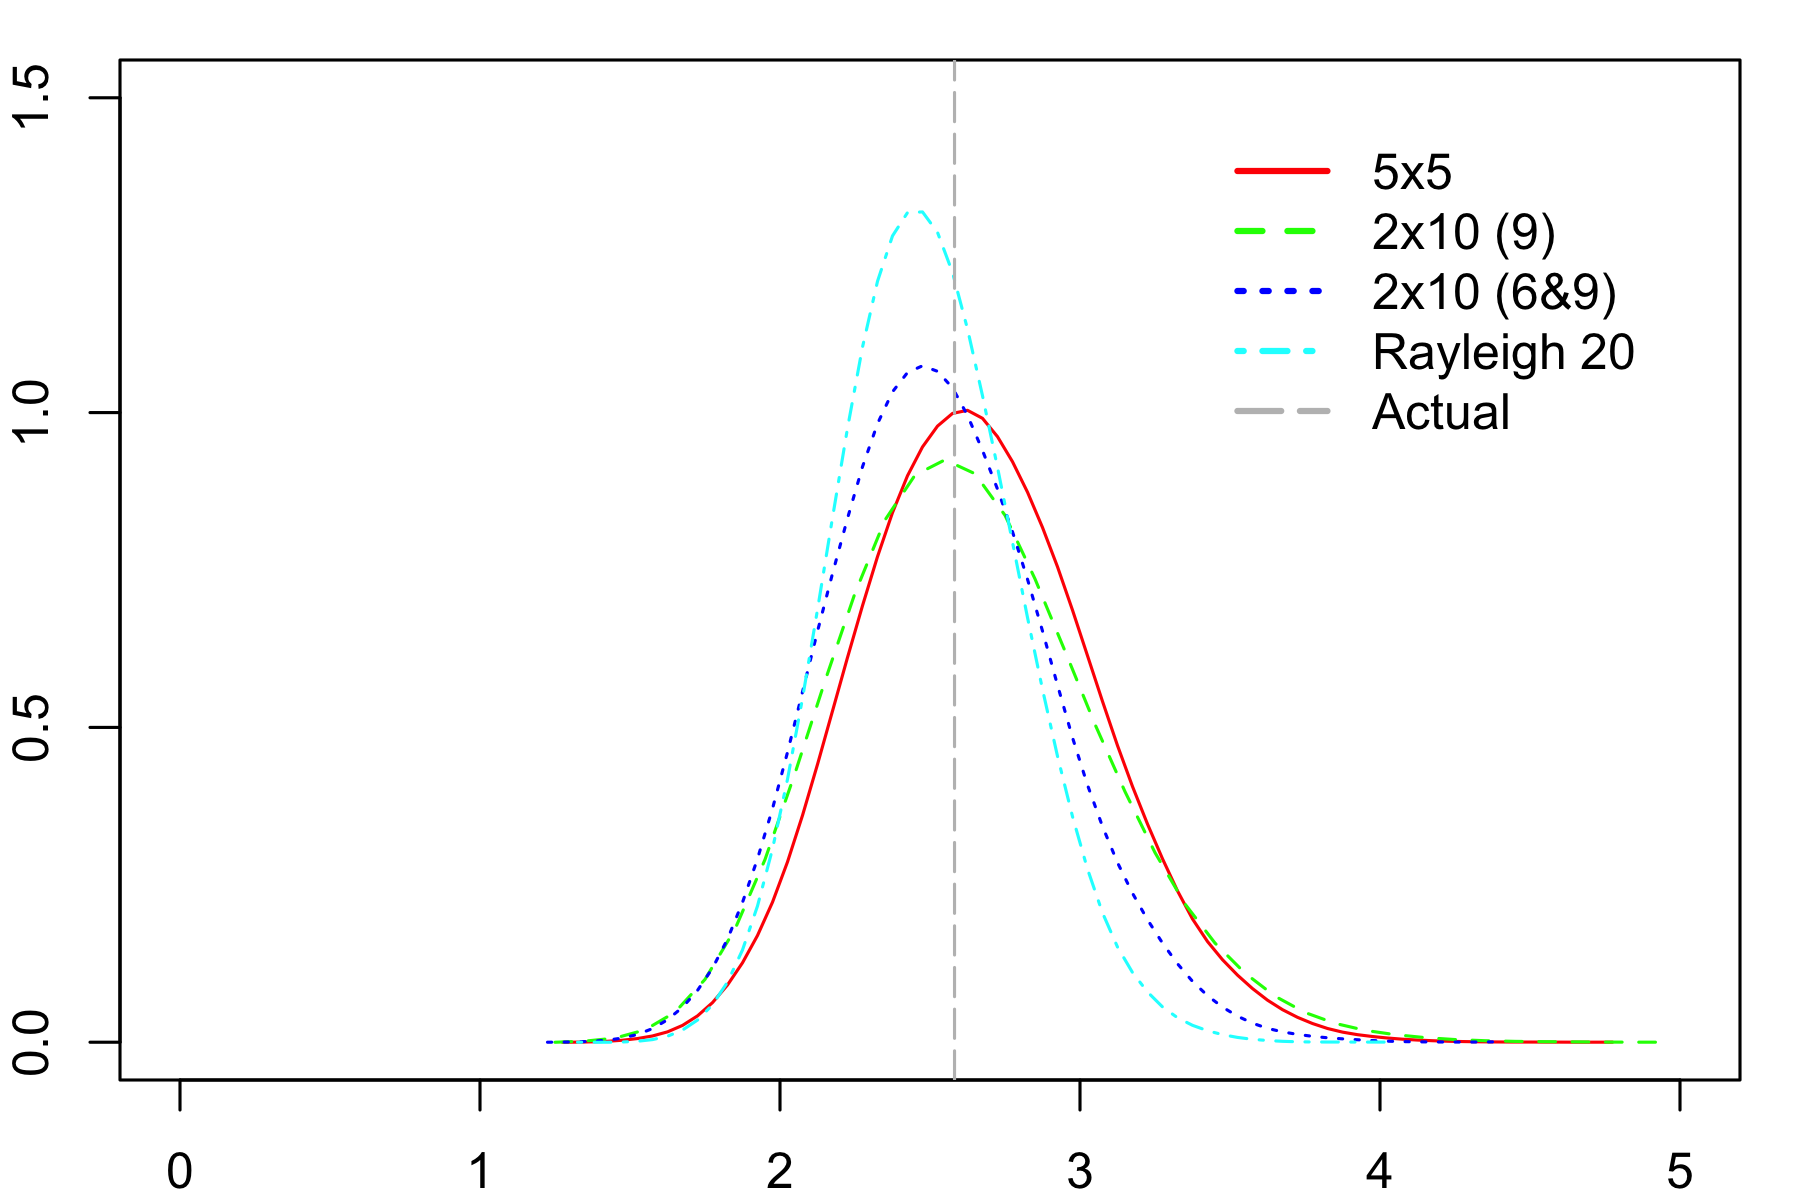
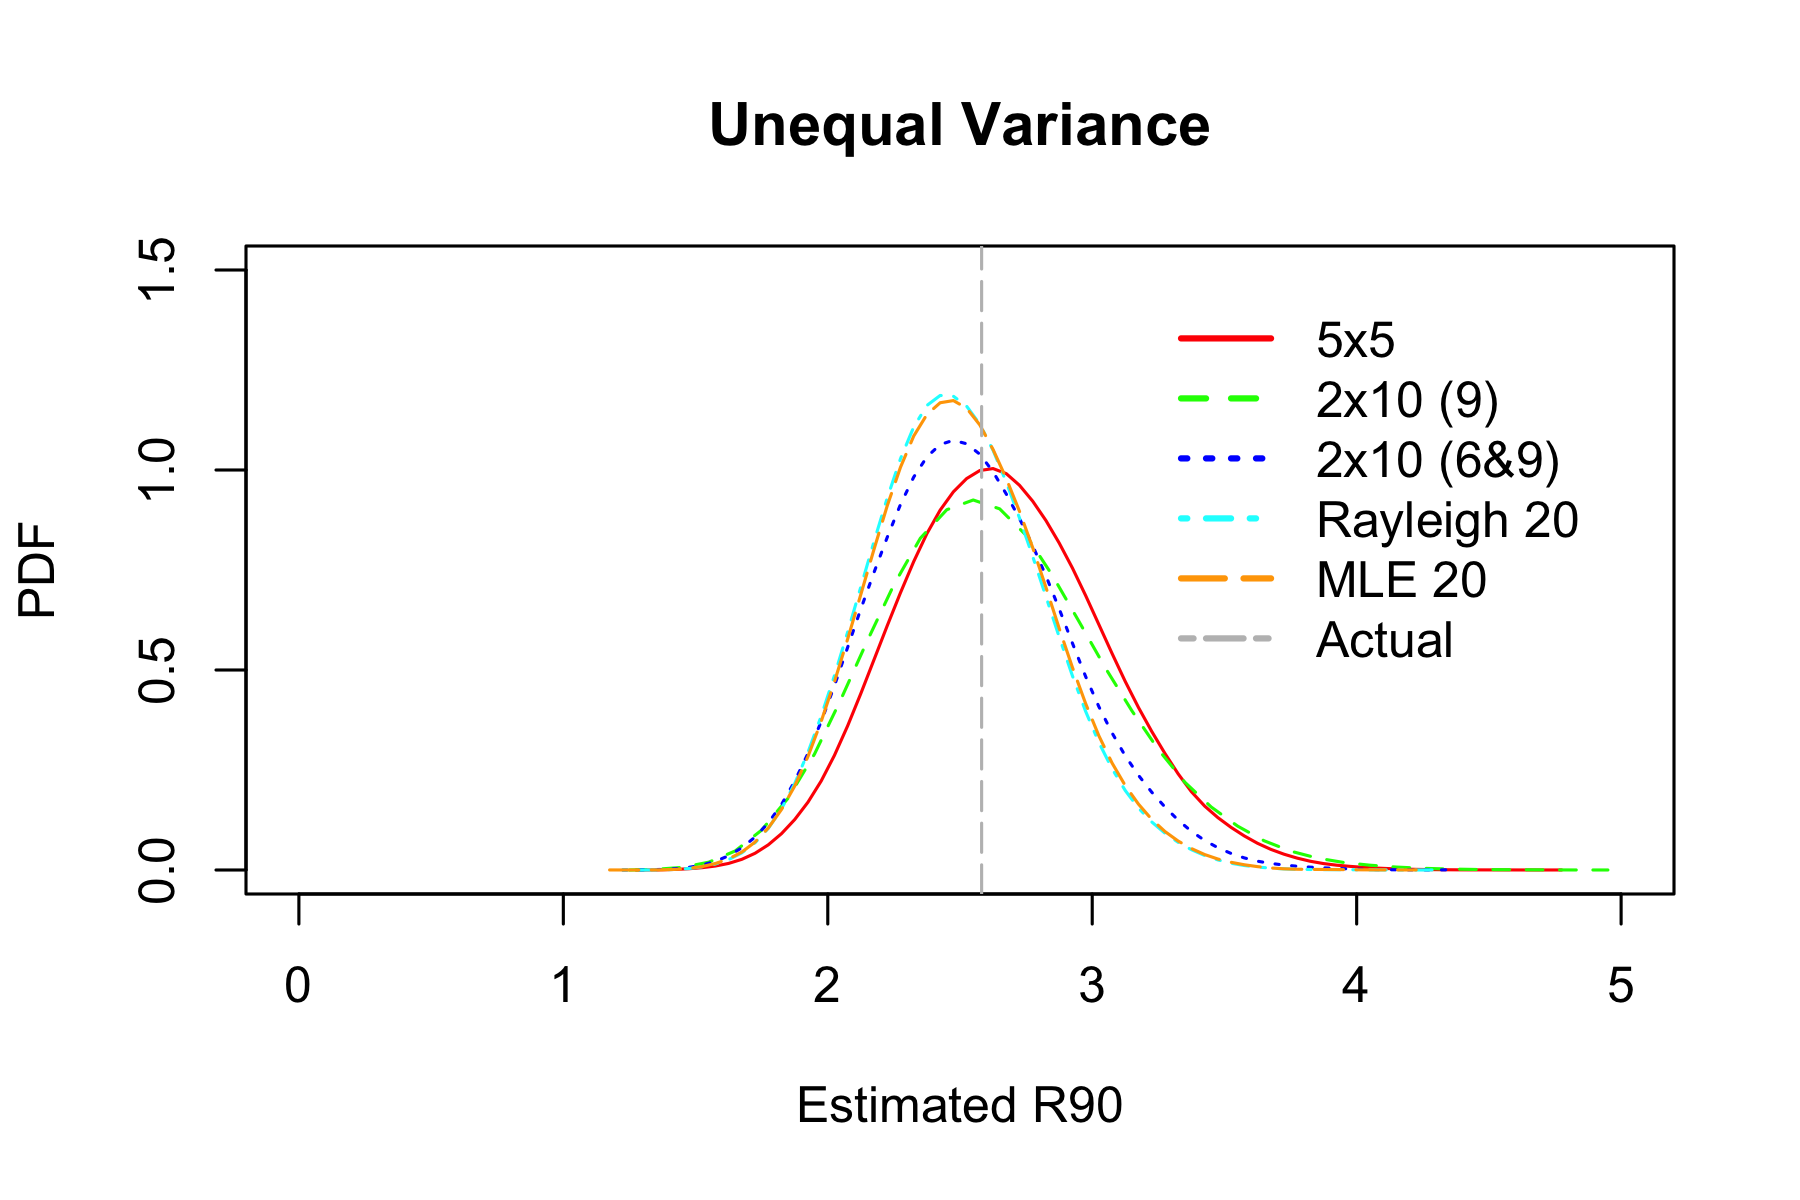
Added MLE, Rayleigh 20 uses 20 shots rather than 25

diff --git a/index.html b/index.html
@@ -77,14 +77,18 @@ img {
 <div id="estimators" class="section level3">
 <h3>Estimators</h3>
 <p><strong>5x5</strong>: Measure average extreme spread of five 5-shot groups. This common method is used by NRA magazine <em>American Rifleman</em> to report firearm accuracy. Multiply by 0.72 to get estimate of R<sub>90</sub>. This assumes perfect zero.</p>
-<p><strong>2x10 (9)</strong>: Measure 9<sup>th</sup> miss radius R<sub>9:10</sub> in each of the two 10 shot groups, take the average, multiply by 1.15 to get estimate of R<sub>90</sub>.</p>
-<p><strong>2x10 (6&amp;9)</strong>: In a 10 shot group, add 6<sup>th</sup> miss radius R<sub>6:10</sub> and 9<sup>th</sup> miss radius R<sub>9:10</sub>. Do it again with the second group and take the average. Multiply by 0.69 to get estimate of R<sub>90</sub>.</p>
+<p><strong>2x10 (9)</strong>: Measure 9<sup>th</sup>-smallest miss radius R<sub>9:10</sub> in each of the two 10 shot groups, take the average, multiply by 1.15 to get estimate of R<sub>90</sub>.</p>
+<p><strong>2x10 (6&amp;9)</strong>: In a 10 shot group, add 6<sup>th</sup>-smallest miss radius R<sub>6:10</sub> and 9<sup>th</sup>-smallest miss radius R<sub>9:10</sub>. Do it again with the second group and take the average. Multiply by 0.69 to get estimate of R<sub>90</sub>.</p>
 <p><strong>Rayleigh 20</strong>: Take the average of 20 miss radiuses, multiply by 1.76 to get estimate of R<sub>90</sub>.</p>
+<p><strong>MLE 20</strong>: Take the sum of squares of 20 miss radiuses, multiply by factor shown in Appendix to get estimate of R<sub>90</sub>.</p>
 </div>
 <div id="experiment-0-bivariate-normal-distribution" class="section level3">
 <h3>Experiment 0: Bivariate Normal Distribution</h3>
-<p>Start with establishing the baseline. Pull impact coordinates from standard bivariate normal distibution, estimate R<sub>90</sub>, pull another impact, see if it lands inside R<sub>90</sub>. Repeat <span class="math">\(10^{5}\)</span> times and plot the distribution of R<sub>90</sub>.</p>
-<p><img src="index_files/figure-html/fig_00-1.png" title="" alt="" width="900" /> <img src="index_files/figure-html/fig_0-1.png" title="" alt="" width="900" /></p>
+<p>Start with establishing the baseline. Pull impact coordinates from standard bivariate normal distibution, estimate R<sub>90</sub>, pull another impact, see if it lands inside R<sub>90</sub>. Compare root mean square error (RMSE) and mean absolute error (MAE) of different estimators.</p>
+<p>Example groups:</p>
+<p><img src="index_files/figure-html/fig_00-1.png" title="" alt="" width="900" /></p>
+<p>Distribution of R<sub>90</sub> estimates based on <span class="math">\(10^{5}\)</span> simulations:</p>
+<p><img src="index_files/figure-html/fig_0-1.png" title="" alt="" width="900" /></p>
 <table>
 <thead>
 <tr class="header">
@@ -115,14 +119,20 @@ img {
 </tr>
 <tr class="even">
 <td align="left">Rayleigh 20</td>
-<td align="left">90.446%</td>
-<td align="left">0.238</td>
-<td align="left">0.435</td>
+<td align="left">90.16%</td>
+<td align="left">0.264</td>
+<td align="left">0.458</td>
+</tr>
+<tr class="odd">
+<td align="left">MLE 20</td>
+<td align="left">89.001%</td>
+<td align="left">0.241</td>
+<td align="left">0.438</td>
 </tr>
 </tbody>
 </table>
 <p>6&amp;9 estimator with 20 shots and 4 measurements works about as well as 5x5 estimator with 25 shots and 5 measurements.</p>
-<p>Rayleigh estimator is better, but it requires 20 measurments.</p>
+<p>Rayleigh estimator is just slightly better, but it requires 20 measurments. MLE is noticeably better, but requires even more work.</p>
 <p>Now let’s shake the ladder - see how well the estimators work when underlying assumptions are violated.</p>
 </div>
 <div id="experiment-1-offset-zero" class="section level3">
@@ -159,9 +169,15 @@ img {
 </tr>
 <tr class="even">
 <td align="left">Rayleigh 20</td>
-<td align="left">91.335%</td>
-<td align="left">0.301</td>
-<td align="left">0.489</td>
+<td align="left">91.05%</td>
+<td align="left">0.33</td>
+<td align="left">0.512</td>
+</tr>
+<tr class="odd">
+<td align="left">MLE 20</td>
+<td align="left">89.546%</td>
+<td align="left">0.28</td>
+<td align="left">0.472</td>
 </tr>
 </tbody>
 </table>
@@ -208,13 +224,19 @@ img {
 </tr>
 <tr class="even">
 <td align="left">Rayleigh 20</td>
-<td align="left">90.954%</td>
-<td align="left">0.578</td>
-<td align="left">0.653</td>
+<td align="left">90.466%</td>
+<td align="left">0.633</td>
+<td align="left">0.679</td>
+</tr>
+<tr class="odd">
+<td align="left">MLE 20</td>
+<td align="left">90.927%</td>
+<td align="left">1.25</td>
+<td align="left">0.924</td>
 </tr>
 </tbody>
 </table>
-<p>9 and 6&amp;9 estimators are more robust (less affected by fliers).</p>
+<p>Now 6&amp;9 estimator outperforms others, and MLE is the worst.</p>
 </div>
 <div id="experiment-3-unequal-variance" class="section level3">
 <h3>Experiment 3: Unequal Variance</h3>
@@ -251,9 +273,15 @@ img {
 </tr>
 <tr class="even">
 <td align="left">Rayleigh 20</td>
-<td align="left">87.66%</td>
-<td align="left">0.314</td>
-<td align="left">0.504</td>
+<td align="left">87.55%</td>
+<td align="left">0.347</td>
+<td align="left">0.529</td>
+</tr>
+<tr class="odd">
+<td align="left">MLE 20</td>
+<td align="left">87.559%</td>
+<td align="left">0.348</td>
+<td align="left">0.529</td>
 </tr>
 </tbody>
 </table>
@@ -292,18 +320,68 @@ img {
 </tr>
 <tr class="even">
 <td align="left">Rayleigh 20</td>
-<td align="left">91.754%</td>
-<td align="left">0.723</td>
-<td align="left">0.727</td>
+<td align="left">91.307%</td>
+<td align="left">0.779</td>
+<td align="left">0.749</td>
+</tr>
+<tr class="odd">
+<td align="left">MLE 20</td>
+<td align="left">91.192%</td>
+<td align="left">1.43</td>
+<td align="left">0.965</td>
+</tr>
+</tbody>
+</table>
+</div>
+<div id="experiment-5-actual-data" class="section level3">
+<h3>Experiment 5: Actual Data</h3>
+<p>Finally let’s look at some real-world data: instead of generating impact coordinates with pseudorandom number generator, sample with replacement from 341 actual shots. Only miss radiuses were recorded, so 5x5 estimator is not shown.</p>
+<p><img src="index_files/figure-html/fig_5-1.png" title="" alt="" width="900" /></p>
+<table>
+<thead>
+<tr class="header">
+<th align="left">Estimator</th>
+<th align="left">Hits within estimated R<sub>90</sub></th>
+<th align="left">RMSE</th>
+<th align="left">MAE</th>
+</tr>
+</thead>
+<tbody>
+<tr class="odd">
+<td align="left">2x10 (9)</td>
+<td align="left">89.401%</td>
+<td align="left">10.2</td>
+<td align="left">2.61</td>
+</tr>
+<tr class="even">
+<td align="left">2x10 (6&amp;9)</td>
+<td align="left">88.215%</td>
+<td align="left">7.87</td>
+<td align="left">2.41</td>
+</tr>
+<tr class="odd">
+<td align="left">Rayleigh 20</td>
+<td align="left">88.141%</td>
+<td align="left">8.23</td>
+<td align="left">2.49</td>
+</tr>
+<tr class="even">
+<td align="left">MLE 20</td>
+<td align="left">88.914%</td>
+<td align="left">14</td>
+<td align="left">2.99</td>
 </tr>
 </tbody>
 </table>
 </div>
 <div id="appendix" class="section level3">
 <h3>Appendix</h3>
-<p>This section describes where the magic numbers 0.72, 1.15, 0.69, and 1.76 came from.</p>
+<p>This section describes where the magic numbers came from.</p>
 <p><strong>5x5</strong> factor 0.72 was determined approximately using Monte Carlo simulations because there does not seem to be another way to do it.</p>
-<p><strong>2x10 (9)</strong> factor 1.15 can be obtained analytically. Assume miss radiuses of individual shots follow Rayleigh distribution with <span class="math">\(\sigma = 1\)</span>. Its probability density function is</p>
+<p><strong>2x10 (9)</strong> uses 9<sup>th</sup> smallest miss radius in 10 shot group because according to formula 3.13 in [1] optimum unbiased estimator from single order statistic R<sub>m:n</sub> is</p>
+<p><span class="math">\[m \approx 0.79681(n+1)-0.39841+\frac{1.16312}{n+1}\]</span></p>
+<p>For <span class="math">\(n=10\)</span> it falls right between 8 and 9, and R<sub>9:10</sub> (second worst miss radius) is easier to find on paper.</p>
+<p>Factor 1.15 can be obtained analytically. Assume miss radiuses of individual shots follow Rayleigh distribution with <span class="math">\(\sigma = 1\)</span>. Its probability density function is</p>
 <p><span class="math">\[f(x)=x e^{-\frac{x^2}{2}}\]</span></p>
 <p>and cumulative distribution function is</p>
 <p><span class="math">\[F(x)=1-e^{-\frac{x^2}{2}}\]</span></p>
@@ -341,13 +419,25 @@ p(u):=romberg(f((u-v)/2,(u+v)/2)/2,v,0,u);
 p2(t):=romberg(2*p(u)*p(2*t-u),u,0,2*t);
 cdf(k):=romberg(p2(z)*exp(-z^2*k^2/2),z,0,10);
 find_root(cdf(k)=0.1,k,0.6,0.8);</code></pre>
-<p><strong>Rayleigh 20</strong> factor 1.76 was determined approximately using Monte Carlo simulations, but we can get approximate value in closed from. With infinite number of shots, expected value of miss radius (Rayleigh estimator) is</p>
+<p><strong>Rayleigh 20</strong> factor 1.76 was determined approximately using Monte Carlo simulations, but we can also get lower bound in closed from. With infinite number of shots, expected value of miss radius (Rayleigh estimator) is</p>
 <p><span class="math">\[r=E(x)=\int_{0}^{\infty}f(x) x dx = \sqrt{\frac{\pi}{2}}\]</span></p>
 <p>From cumulative distribution function of miss radius</p>
 <p><span class="math">\[F(R_{90})=1-e^{-\frac{R_{90}^2}{2}} = 0.9, R_{90}=\sqrt{2ln(10)}\]</span></p>
 <p>therefore the factor is</p>
 <p><span class="math">\[k = \frac{R_{90}}{r} = \sqrt{\frac{4 ln(10)}{\pi}} \approx 1.71223316\]</span></p>
 <p>Rayleigh distribution is asymmetric so this is a lower bound on <span class="math">\(k\)</span>.</p>
+<p><strong>MLE 20</strong> factor for <span class="math">\(N=20\)</span> is</p>
+<p><span class="math">\[k=\frac{4^N N! (N-1)! \sqrt{N}}{(2N)!\sqrt{\pi}}\sqrt{2ln(10)}\sqrt{\frac{1}{2N}} \approx 0.3414341\]</span></p>
+<p><a href="http://maxima.sourceforge.net">Maxima</a> expression:</p>
+<pre class="maxima"><code>float(4^20*20!*(20-1)!*sqrt(20)*sqrt(2*log(10))/((2*20)!*sqrt(%pi)*sqrt(2*20)));</code></pre>
+</div>
+<div id="source-code" class="section level3">
+<h3>Source Code</h3>
+<p><a href="http://github.com/lstange/mcgs/" class="uri">http://github.com/lstange/mcgs/</a></p>
+</div>
+<div id="references" class="section level3">
+<h3>References</h3>
+<p>[1] M. M. Siddiqui (1964): “Statistical Inference for Rayleigh Distributions”, <em>Radio Science Journal of Research Vol 68D, No.9</em> <a href="http://ballistipedia.com/images/7/7a/Statistical_Inference_for_Rayleigh_Distributions_-_Siddiqui%2C_1964.pdf">http://ballistipedia.com/images/7/7a/Statistical_Inference_for_Rayleigh_Distributions_-_Siddiqui%2C_1964.pdf</a></p>
 </div>
 
 
